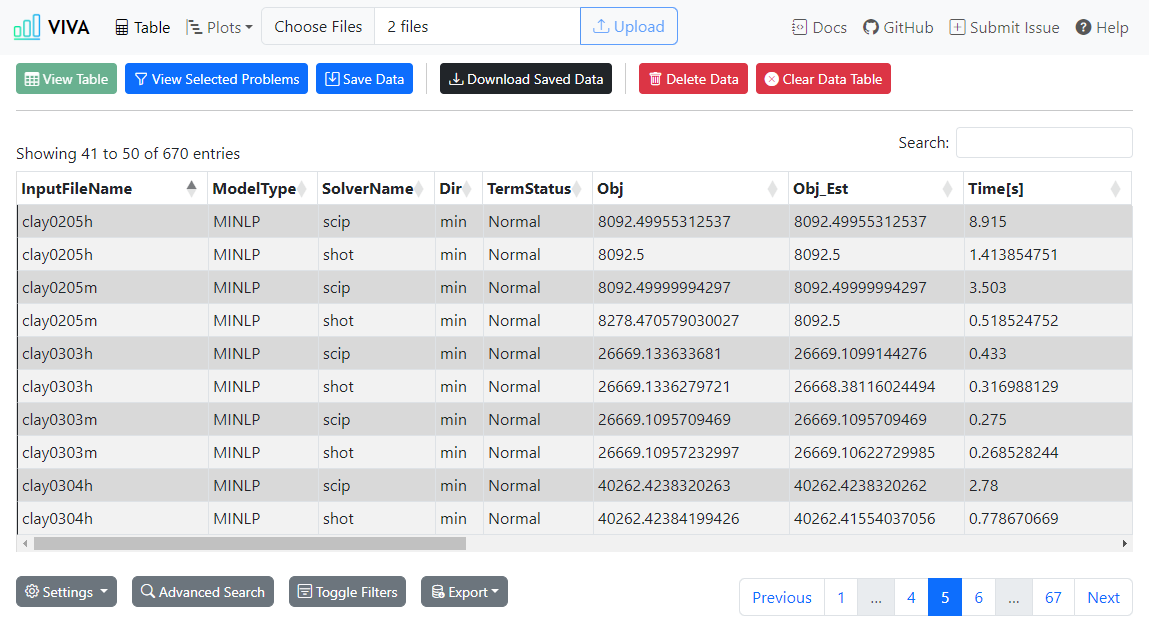
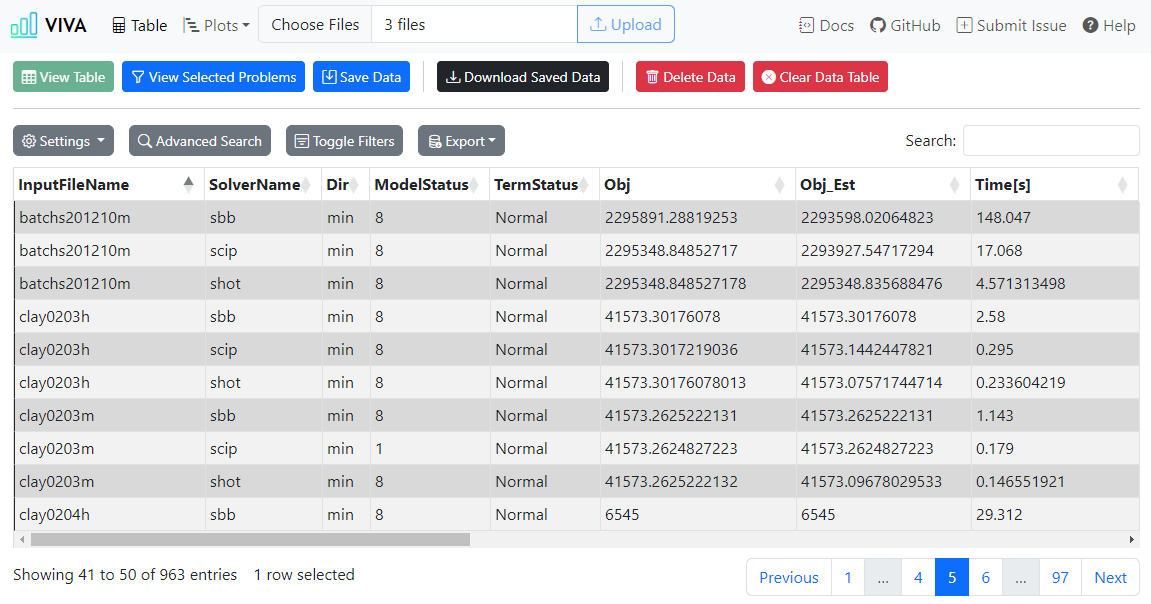
New layout.

diff --git a/Src/Scripts/DataTable/DataTableWrapper.ts b/Src/Scripts/DataTable/DataTableWrapper.ts
@@ -79,9 +79,9 @@ function DataTablesConfiguration(): void {
 			layout: "auto"
 		},
 		dom:
-			"<'row'<'col-12 col-sm-6 col-md-6'i><'col-12 col-sm-6 col-md-6 text-end'f>>" +
-			"<'row'<'col-12'tr>>" +
-			"<'row'<'col-12 col-lg-6 mt-4'B><'col-12 col-lg-6 mt-4 text-end'p>>",
+			"<'row'<'col-sm-12 col-md-6'B><'col-sm-12 col-md-6'f>>" +
+			"<'row'<'col-sm-12'tr>>" +
+			"<'row'<'col-sm-12 col-md-5'i><'col-sm-12 col-md-7 mt-2'p>>",
 		lengthChange: true,
 		lengthMenu: [
 			[10, 25, 50, 100, -1],
